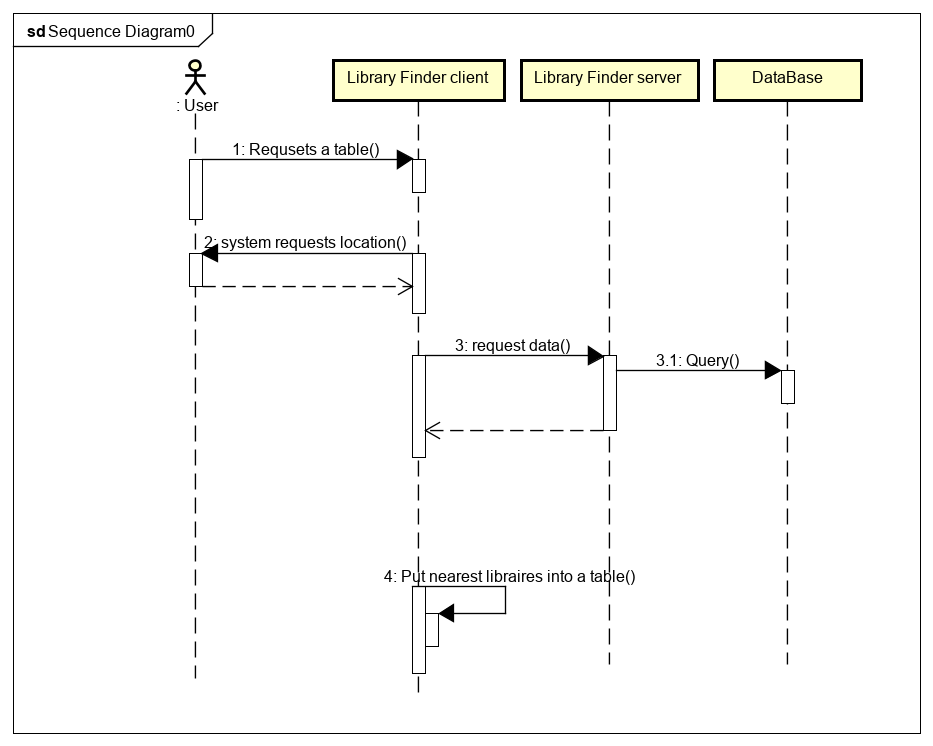
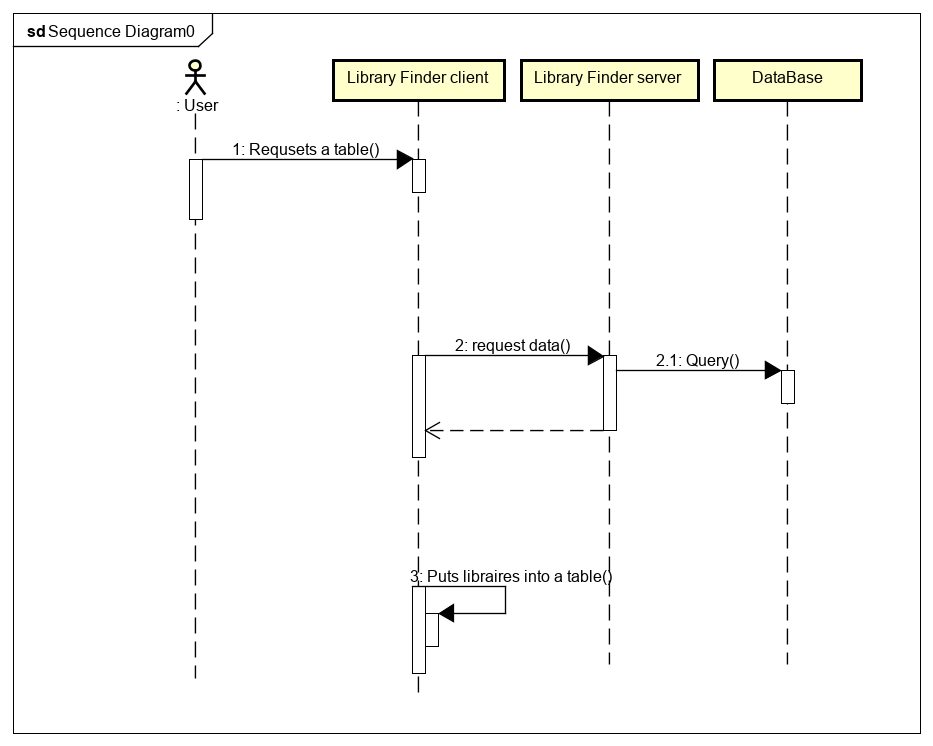
code added

Changed region(s): [[0.4352, 0.7399, 0.6838, 0.8016], [0.1865, 0.3083, 0.4352, 0.4008], [0.4041, 0.3391, 0.4662, 0.4316]]

diff --git a/main.js b/main.js
@@ -8,7 +8,7 @@ const conf = require('./conf.json');
 
 const QUERY = "SELECT * FROM new_schema.libraries;"
 
-const QUERY1 = "SELECT * FROM `new_schema.libraries` WHERE Postcode LIKE = ?";
+const QUERY1 = "USE new_schema; SELECT *FROM `libraries` WHERE POSTCODE = ?";
 
 
 
@@ -21,7 +21,7 @@ app.use(express.static("static"));
 
 
 app.get("/search.html", function (request, response) {
-    connection.query(QUERY2, ["%"+request.query.search+"%"], function (err, rows, fields) {
+    connection.query(QUERY1, ["%"+request.query.Postcode+"%"], function (err, rows, fields) {
         if (err) {
             response.status(500);
             response.send(err);
@@ -68,6 +68,7 @@ app.get("/map.html", function (request, response) {
     
 app.get("/", splash);
 app.get("/index.html", splash);
+app.get("/search.html", splash);
 
 var connection = mysql.createConnection(conf.db);
 
